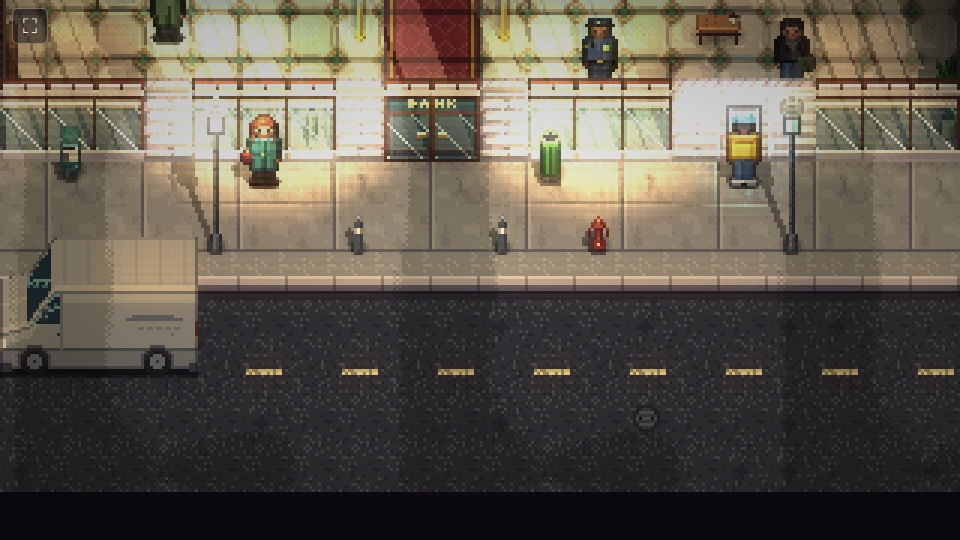
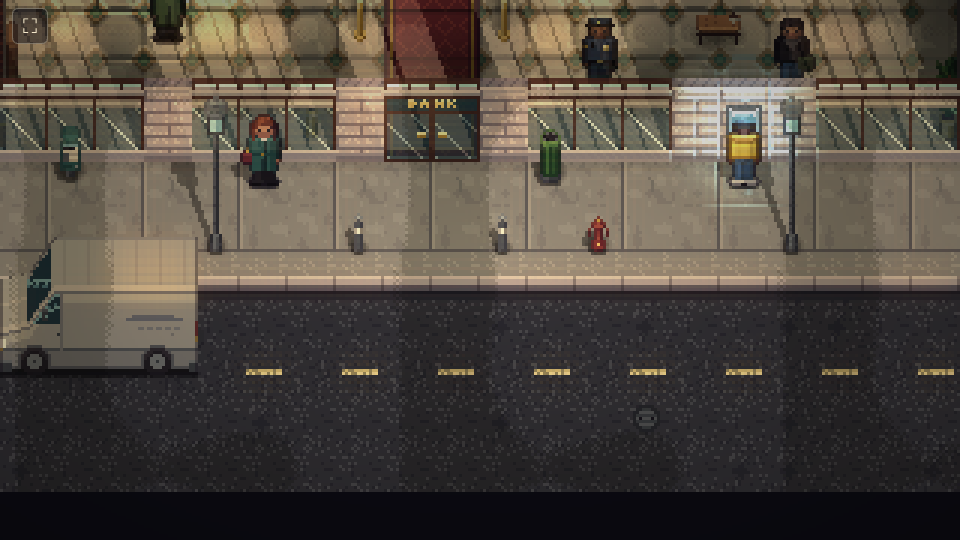
Keep lamp light off the pavement and write walls as edges into the rules
Light2D lights shine through walls, and with the shop front on the tile edge the pools of the lamps nearest the glass
reached the sidewalk, where the doubled street exposure made them bright blobs. Those lamps are smaller now and the
window sun patches stand further in, so their light ends at the shop front.

GAME_DESIGN.md now says walls stand between tiles: segments on tile edges that movement, sight, bullets, sound and
vehicles cross or not by material; gaps and holes open whole segments; a wall on a tile's edge is full cover from
that side.

Claude-Session: https://claude.ai/code/session_01LiRSX9QW4LERJSxq7zdRb3

Changed region(s): [[0.0, 0.0, 0.9688, 0.4148]]

diff --git a/src/scenes/LobbyScene.ts b/src/scenes/LobbyScene.ts
@@ -281,9 +281,11 @@ export class LobbyScene extends Phaser.Scene {
     /** Indoors: warm ceiling pools with darker floor between them, and sun patches where the shafts land. */
     private buildDaylight(): void {
         const facadeY = facade(this.level).line;
-        for (const x of [2.5, 6.5, 10, 13.5, 19.5]) this.lights.addLight(x * TILE - 20, facadeY - 2 * TILE, 52, 0xffd9a0, 0.8, 30);
-        const lobby = [[3.5, 8.5], [9.5, 8], [15.5, 8.5], [6.5, 11.5], [13.5, 11.5]] as const;
-        for (const [x, y] of lobby) this.lights.addLight(x * TILE, y * TILE, 80, 0xffd8b0, 1.5, 48);
+        // Sun patches just inside the glass. Lights shine through walls, so they stand far enough in to stay off the pavement.
+        for (const x of [2.5, 6.5, 10, 13.5, 19.5]) this.lights.addLight(x * TILE - 20, facadeY - 3 * TILE - 4, 48, 0xffd9a0, 0.8, 30);
+        // Ceiling lamps; the row nearest the glass is smaller, so its pools end at the shop front instead of lighting the pavement.
+        const lobby = [[3.5, 8.5, 80], [9.5, 8, 80], [15.5, 8.5, 80], [6.5, 10.75, 56], [13.5, 10.75, 56]] as const;
+        for (const [x, y, radius] of lobby) this.lights.addLight(x * TILE, y * TILE, radius, 0xffd8b0, 1.5, 48);
         // The teller line is lit brighter than the lobby, and these reach up the back wall to its dressing.
         for (const x of [4, 10, 16]) this.lights.addLight(x * TILE, 4.2 * TILE, 84, 0xffdcb8, 1.8, 50);
         // Cool strip lights along the staff corridor.

diff --git a/docs/design/GAME_DESIGN.md b/docs/design/GAME_DESIGN.md
@@ -256,7 +256,7 @@ and is not previewed (§13.6).
 
 | Action | Cost | Notes |
 | --- | --- | --- |
-| Move | 1 | Up to 5 tiles (4 in heavy armour). Diagonals cost 1.5. Can't cut wall corners. |
+| Move | 1 | Up to 5 tiles (4 in heavy armour). Diagonals cost 1.5. Can't cross a wall segment (§14.1) or cut a corner where one ends. |
 | Dash | 2 | Up to 10 tiles. Quiet noise radius 2. Not allowed in heavy armour or carrying Heavy loot. |
 | Attack | 1 | Most weapons. LMG and Suppress cost 2. A weapon's moving penalty applies if the character moved this turn. |
 | Command ("Get down!") | 1 | Doesn't end the turn. See §10. |
@@ -332,7 +332,7 @@ What the kits unlock:
 | --- | --- |
 | **Hacking kit** | Loop a camera feed for 4 phases (at a junction box or the console). Disable the alarm panel or a vault sensor (4 actions). Pull the code or time-lock schedule from the manager's PC (2 actions). Ring any desk phone remotely. |
 | **Lockpick set** | Open mechanical locks and deposit boxes (2 actions). |
-| **Glass cutter** | Cut a quiet 1-tile hole in a window (2 actions). |
+| **Glass cutter** | Cut a quiet hole through one window segment (2 actions). |
 | **Drill** | Drill a vault door, safe or deposit-box wall (§15.3). |
 
 **Traits** belong to the person. A recruit comes with **one** trait; the player picks another from three offered
@@ -560,8 +560,8 @@ Rules:
 Every action that makes noise previews its ring before it is confirmed. Every NPC inside gets an ear icon, labelled
 with the state it will move to.
 
-**How sound spreads.** Sound spreads outward through open tiles, like water. Each **closed door** or **Soft wall** it
-passes through costs 3 tiles of reach. **Reinforced and Vault walls stop it.** Open doors, broken walls and holes
+**How sound spreads.** Sound spreads from tile to tile, like water. Each **closed door** or **Soft wall** segment it
+crosses costs 3 tiles of reach. **Reinforced and Vault walls stop it.** Open doors, broken walls and holes
 cost nothing. The ring is drawn as exactly the tiles it reaches.
 
 **Two kinds of noise:**
@@ -904,12 +904,13 @@ bullet lands within its arc, and the cover roll. Everything else is fixed and pr
 
 ### 11.4 Cover
 
-- **Half cover** (desk, counter, planter, sofa, low wall, a cash cart): protects a target in an **adjacent tile**
-  against bullets arriving within the **90° arc** facing the cover. Each bullet that would hit is **blocked 50% of
+- **Half cover** (desk, counter, planter, sofa, low wall, a cash cart): protects a target in an **adjacent tile**, or
+  for a low wall, in a tile it runs along, against bullets arriving within the **90° arc** facing the cover. Each bullet that would hit is **blocked 50% of
   the time**. Blocked bullets damage the cover (desk 6 HP, planter 4, counter 10; marble counters can't be
   destroyed).
-- **Full cover** (walls, pillars, vehicles, ATMs, vault door): blocks line of sight. Standing next to a corner
-  doesn't expose anyone: a character behind full cover can't be seen or shot from beyond it.
+- **Full cover** (walls, pillars, vehicles, ATMs, vault door): blocks line of sight. A wall segment on one of a
+  character's tile edges covers them from that side. Standing next to a corner doesn't expose anyone: a character
+  behind full cover can't be seen or shot from beyond it.
 - **Leaning out.** A character next to a full-cover corner can attack (or set a Watch wedge) by **leaning out**. The
   shot is traced from the open tile beside the corner. Leaning puts them in the **Leaning** state until the start of
   their side's next phase: they are visible and can be shot from anything that can see that open tile, with half
@@ -1074,15 +1075,15 @@ For tuning only (never shown to the player): expected hits against a standing ta
 | Flashbang ×2 | Radius 2, thrown up to 6 tiles: everyone Surprised for one phase, civilians Commanded. Fused: goes off at the start of the next world phase. | 14 | Concealed |
 | Smoke ×2 | Radius 2: blocks sight for 3 phases. | 4 | Concealed |
 | Noisemaker ×3 | Quiet sound (radius 3) at the landing tile: a lure. | 3 | Clean |
-| Breach charge ×2 | Glass, Soft walls and doors: opens a 1-tile gap, 4 damage to the 3 tiles on the far side. | 14 | Concealed |
-| Shaped charge ×1 | Reinforced walls: 1-tile gap, 6 damage on the far side, debris gives half cover. | 18 | Concealed |
+| Breach charge ×2 | Glass, Soft walls and doors: opens a gap of one wall segment, 4 damage to the 3 tiles on the far side. | 14 | Concealed |
+| Shaped charge ×1 | Reinforced walls: a gap of one wall segment, 6 damage on the far side, debris gives half cover. | 18 | Concealed |
 | Thermite ×1 | Vault door or floor: burns 3 phases (5 on Class III), can't be stopped, fire on the tile, scorches loot within 1 tile of the door. Counts as drilling for sensors and heat. | 6 per phase | Armed |
 | Drill | Vault door, safe or deposit-box wall: see §15.3. | 6 per phase | Armed |
 | Tripwire charge ×2 | Placed on a door or tile; detonates when a non-crew NPC crosses it: 6 damage in radius 1. Police spot it within 3 tiles from Heat 3 and disarm it in 1 action. | 14 | Concealed |
 | Jammer | Placed; radius 8, blocks radios and phones. Dispatch notices "lost contact" after 10 phases (§9.1). | 0 | Concealed |
 | Hacking kit | Camera loops, alarm panel and sensors, the manager's PC, remote phone calls (§7.2). | 1 | Clean |
 | Lockpick set | Mechanical locks: 2 actions (Steady Hands 1). | 1 | Clean |
-| Glass cutter | A quiet 1-tile hole in a window: 2 actions. | 1 | Clean |
+| Glass cutter | A quiet hole through one window segment: 2 actions. | 1 | Clean |
 | Medkit ×2 | Revive or heal 4 HP: 1 action. | 0 | Clean |
 | Duffel | Holds one long gun and one armour piece. | 0 | Concealed |
 | Ammo bag | Drop on a tile; adjacent crew refill their spare magazines (1 action each), 4 uses (§11.11). | 0 | Concealed |
@@ -1305,13 +1306,18 @@ in view of a window, and counter-snipe a known nest.
 
 ### 14.1 The property vocabulary (canonical)
 
-Every tile and object is described by a **closed set of properties**. Every tool is defined only by how it changes
-them. A new idea that can't be expressed in these properties is either cut or adds **one general property**, never
-a one-off script [R29].
+Every tile, wall segment and object is described by a **closed set of properties**. Every tool is defined only by how
+it changes them. A new idea that can't be expressed in these properties is either cut or adds **one general property**,
+never a one-off script [R29].
+
+**Walls stand between tiles.** A wall segment runs along one tile edge at its material's real thickness, so a plaster
+partition is drawn thin and every tile stays floor. Doors, windows, the shop front's glass and the vault door are
+segments too. Movement, sight, bullets, sound and vehicles are stopped (or not, by material) when they cross the
+edge; something is against a wall when the wall is on one of its tile's edges. Gaps and holes open whole segments.
 
 | Thing | Properties |
 | --- | --- |
-| Tile or object | Zone · Raised · Material (Glass, Teller glass, Soft, Reinforced, Vault, Boundary) · BlocksSight · BlocksMove · Cover (none, half, full) · HP (or indestructible) · Powered · Lit · Lock (none, mechanical, keycard, maglock, vault) · Open/Closed · Drivable · Flippable · NoiseDamping · Flammable · Evidence |
+| Tile, wall segment or object | Zone · Raised · Material (Glass, Teller glass, Soft, Reinforced, Vault, Boundary) · BlocksSight · BlocksMove · Cover (none, half, full) · HP (or indestructible) · Powered · Lit · Lock (none, mechanical, keycard, maglock, vault) · Open/Closed · Drivable · Flippable · NoiseDamping · Flammable · Evidence |
 | NPC | Role · Observer class · Schedule · State · Suspicion (per crew) · Knowledge (who is Exposed to them, what they saw) · Intent · Command pips · Traits (armed, hero, key holder, bribable) |
 | Crew | Traits · HP · Actions · Profile · Loadout · Carry · Exposed-to list · Notoriety |
 
@@ -1320,13 +1326,13 @@ a one-off script [R29].
 | Tool | Glass | Soft (drywall, wood) | Reinforced (brick, concrete) | Vault | Boundary |
 | --- | --- | --- | --- | --- | --- |
 | Bullets | Pass, pane breaks | Pierce ≥ 1 passes (−1 damage) | Stop | Stop | Stop |
-| Glass cutter (quiet) | 1-tile hole | — | — | — | — |
+| Glass cutter (quiet) | Hole, 1 segment | — | — | — | — |
 | Shotgun breach | Door or window | Doors and locks | — | — | — |
-| Breach charge | Gap | 1-tile gap | — | — | — |
-| Shaped charge | Gap | Gap | 1-tile gap | — | — |
+| Breach charge | Gap | Gap, 1 segment | — | — | — |
+| Shaped charge | Gap | Gap | Gap, 1 segment | — | — |
 | Thermite | — | — | — | Door or floor, 3 phases | — |
 | Drill | — | — | — | Door, by vault class | — |
-| Vehicle ram | 3-wide gap | 3-wide gap (doors and rolling shutters) | — | — | — |
+| Vehicle ram | Gap, 3 segments | Gap, 3 segments (doors and rolling shutters) | — | — | — |
 | Reinforce (crew) | — | Becomes Reinforced | — | — | — |
 
 - **Explosions** deal damage on the far side of the wall, leave debris (half cover) and **destroy loot** within 1
@@ -1367,15 +1373,15 @@ path (a Wheelman 16) with everyone aboard:
   the vehicle can end up facing that way, driving the turn as a real curve. A car pointing up and turned 90°
   clockwise ends up somewhere up and to the right, facing right. Turned 180°, it ends up beside its starting point
   facing down. The curve's length counts against the 8 tiles, and turns can be made going forward or in reverse.
-- **Clear path:** every tile the vehicle sweeps along the way must be clear: Drivable, and free of walls, cover
-  objects, vehicles and wrecks. There is no separate clearance rule; a turn fits where its curve fits.
+- **Clear path:** every tile the vehicle sweeps along the way must be clear: Drivable, free of cover objects, vehicles
+  and wrecks, and with no wall segment across it. There is no separate clearance rule; a turn fits where its curve fits.
 - **People in the way** are hit (6 damage) unless they move. The preview shows the swept path, the end footprint and
   anyone in it before you confirm.
 
 **Ram** (1 action): straight forward only, and the vehicle needs at least 2 clear tiles of run-up in front of it. It
 drives into the first thing ahead:
 
-- a **Glass or Soft** frontage, door or rolling shutter opens a gap as wide as the vehicle plus one, deals 6 damage
+- a **Glass or Soft** frontage, door or rolling shutter opens a gap as wide as the vehicle plus one segment, deals 6 damage
   across the impact area (civilians included) and makes a loud noise (radius 16). The vehicle ends up in the breach
   as full cover;
 - a **police car, wreck or roadblock** is shoved aside, out of the way;
@@ -1640,7 +1646,8 @@ be shared.
 | **Reserve depot** (finale) | Hand-authored | On-site response team | III, seismic, biometric | Unique | 3 |
 
 The whole plot, including street and neighbours, is about **60×40 tiles**. Keep the lobby within about 16 tiles
-corner to corner, so most firefights fit on one screen. Corridors are 2 tiles wide where crews must pass each other.
+corner to corner, so most firefights fit on one screen. Corridors are 2 tiles wide where crews must pass each other;
+walls take no tiles of their own.
 Every map is one level; height is a tile property and roofs and sewers are off-map routes (§14.7).
 
 ### 17.4 Rooms and their jobs

diff --git a/docs/design/visual-preview.md b/docs/design/visual-preview.md
@@ -127,7 +127,8 @@ lobby. The preview splits the job instead:
   the shop front, so there is one layer per height of the front, swapped as it drops or stands; the cloud shadows'
   top edge follows it the same way. Rendering at half first leaves the lamps
   headroom; with a plain multiply the interior clipped to white before it was darkened, and every lamp pool vanished.
-- **Lamps are Light2D** (about 26 of the 32 allowed): warm pools over the lobby, brighter ones over the teller line,
+- **Lamps are Light2D** (about 26 of the 32 allowed; they shine through walls, so those near the glass are kept small
+  enough that their pools end at the shop front): warm pools over the lobby, brighter ones over the teller line,
   cool strip lights in the corridor,
   banker's lamps on the counter, cyan from the teller monitors and the ATM, green from the exit sign. The interior is
   meant to read as a believably lit bank, with the grit coming from the shade between pools and the dark corners,
@@ -146,7 +147,5 @@ lobby. The preview splits the job instead:
 - A full-height wall in the upper half of the screen still hides about 1.6 tiles behind it. In play, people and threats
   there should show as a silhouette through the wall, and the safe-floor overlay and hovering a tile should drop the
   walls in their way.
-- The rules in `GAME_DESIGN.md` still speak of walls as tiles (a breach opens "a 1-tile gap"); with walls on edges
-  that becomes one wall segment, and sound, vision and cover cross edges rather than tiles.
 - Daytime only for now. Closing time (warmer, lower sun) and a power cut (§8.13: emergency lights only) would reuse
   the same layers with different values.
